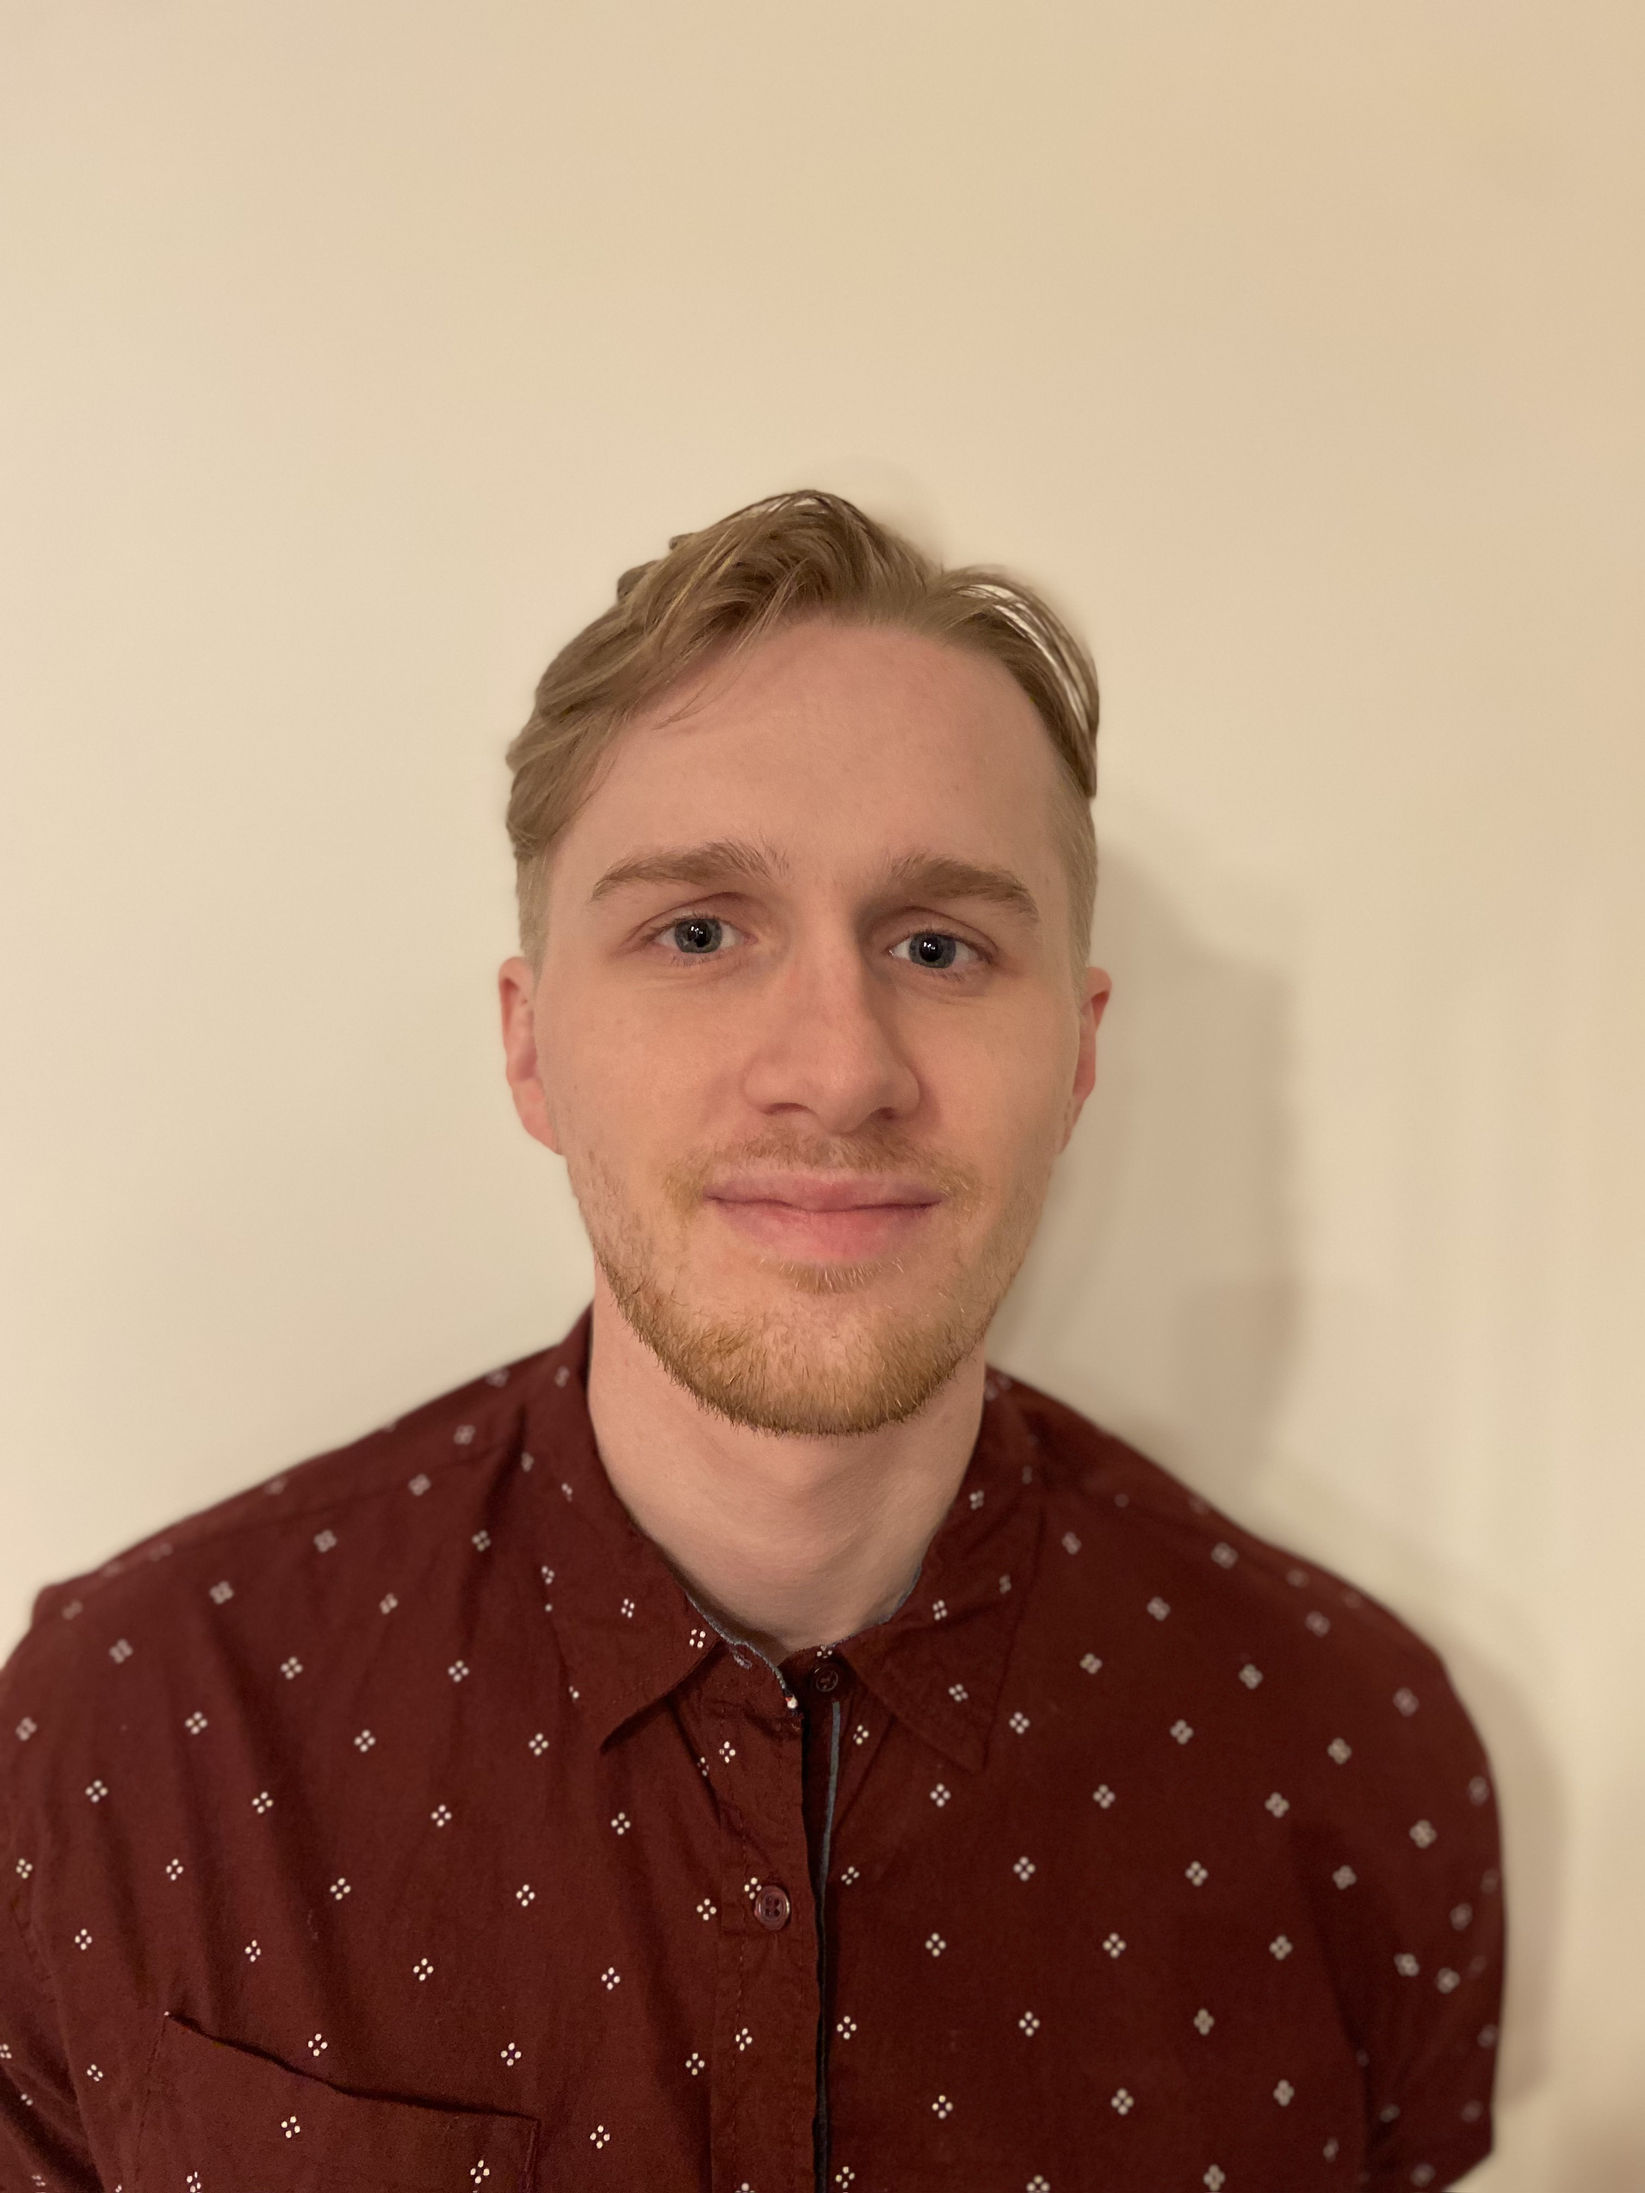
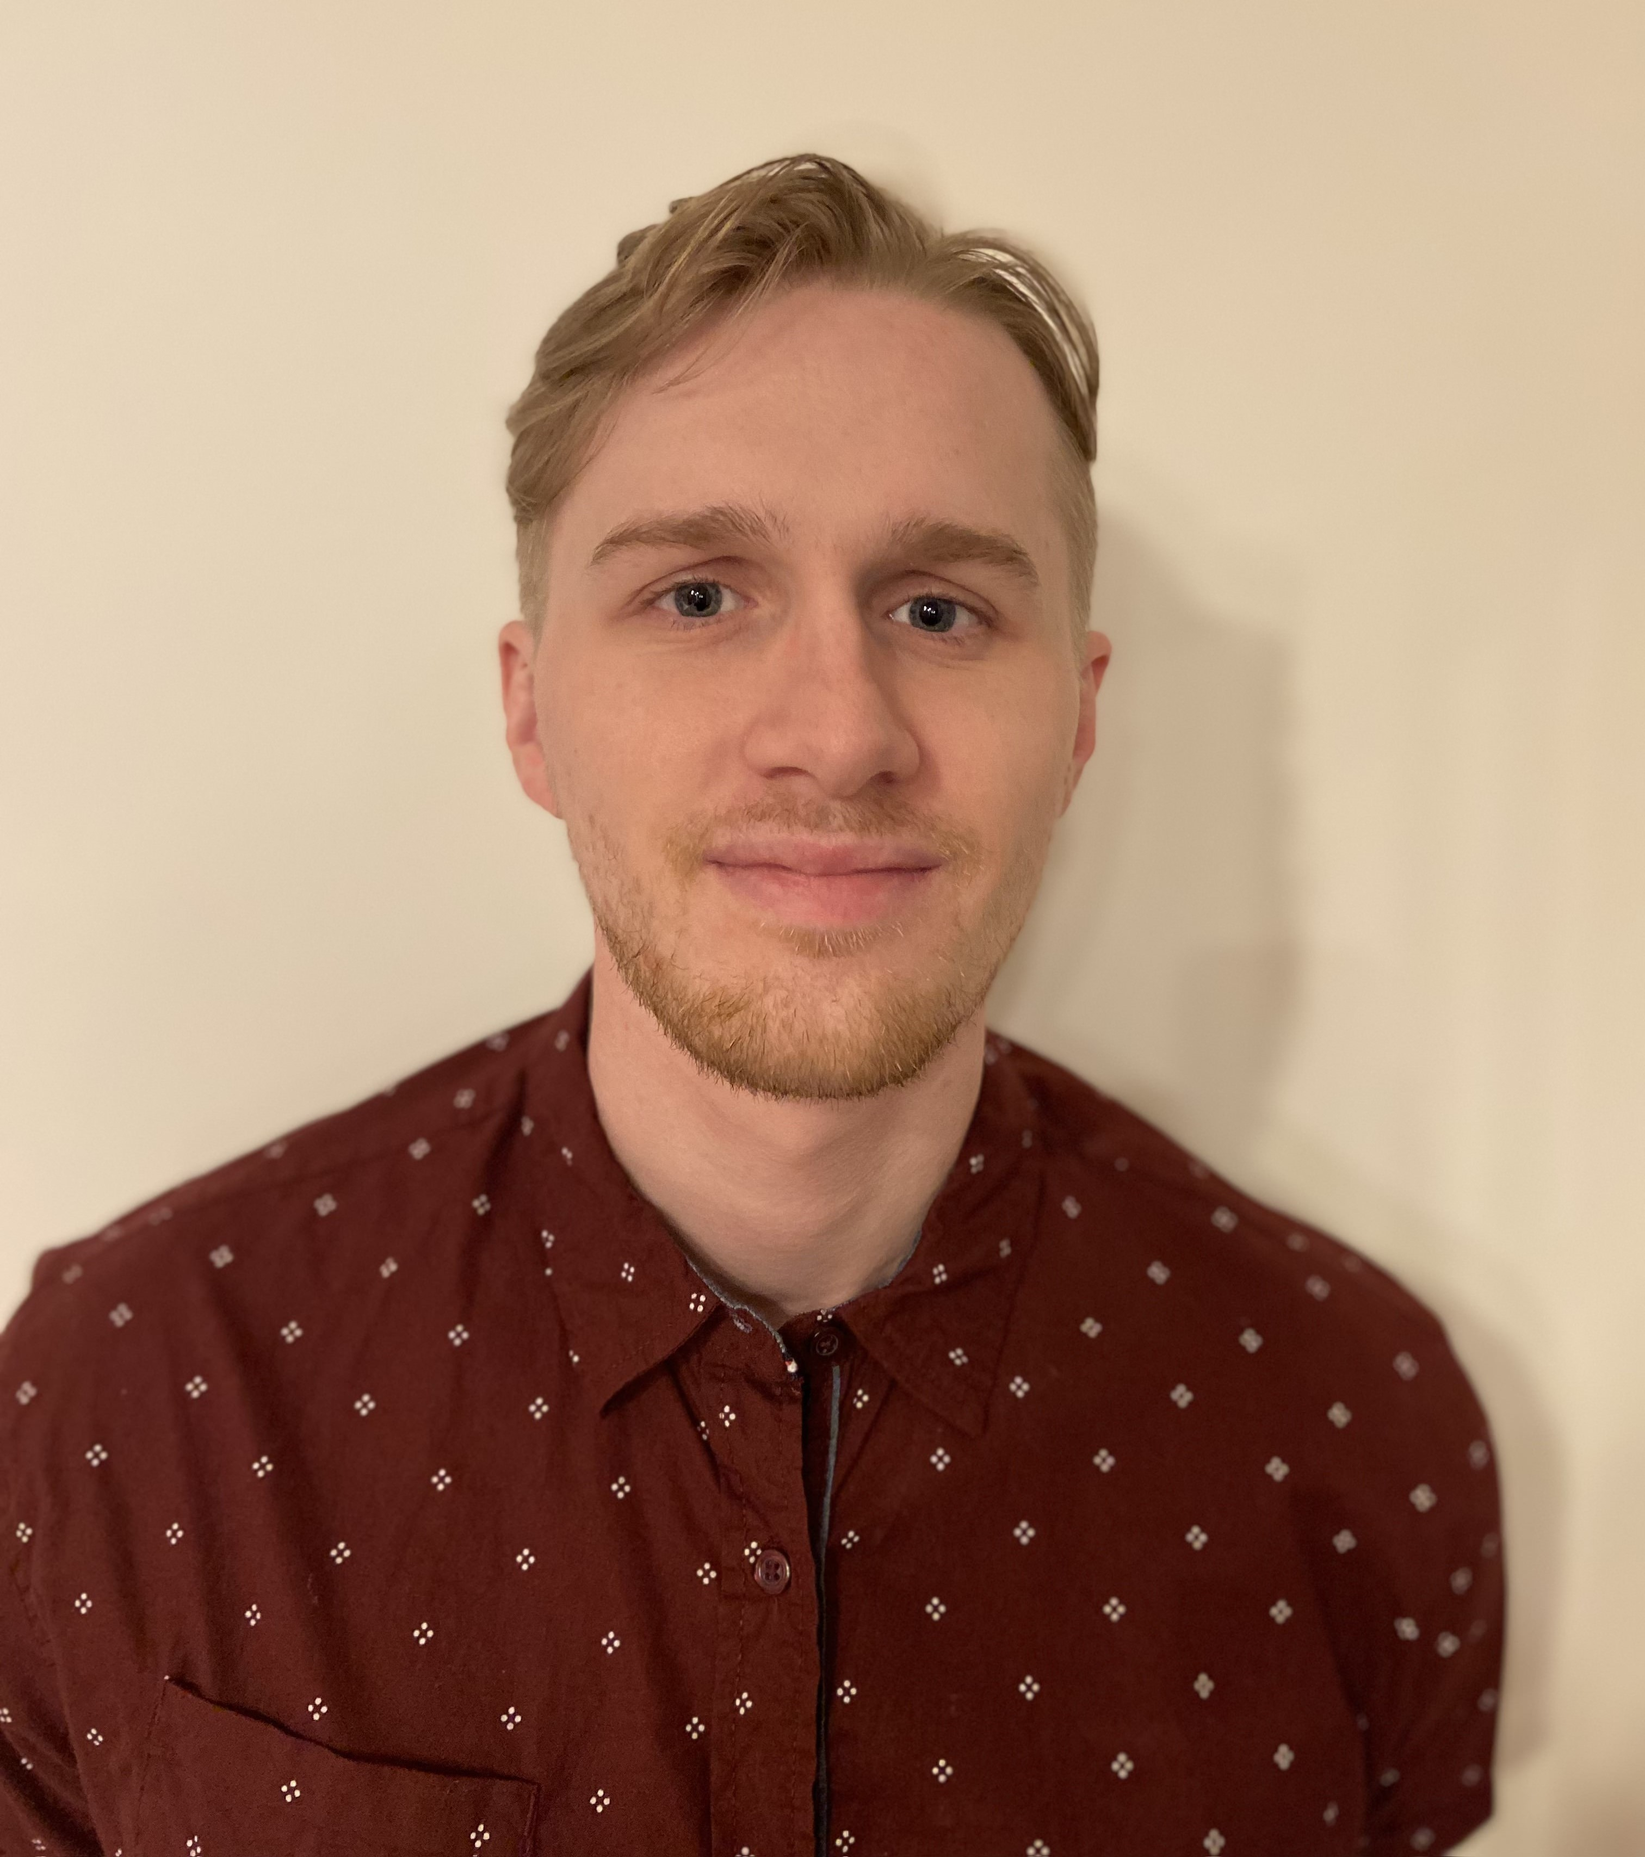
Fixed photo sizes, added fun photos for everyone, added temp photos in for one person

diff --git a/styles/main.css b/styles/main.css
@@ -189,7 +189,9 @@ main {
 }
 
 .card-img-top {
-    /* width: 285px; */
+    object-fit: cover;
+    object-position: top;
+    height: 23em;
     padding: 10px;
     border-top-left-radius: 30px;
     border-top-right-radius: 30px;
